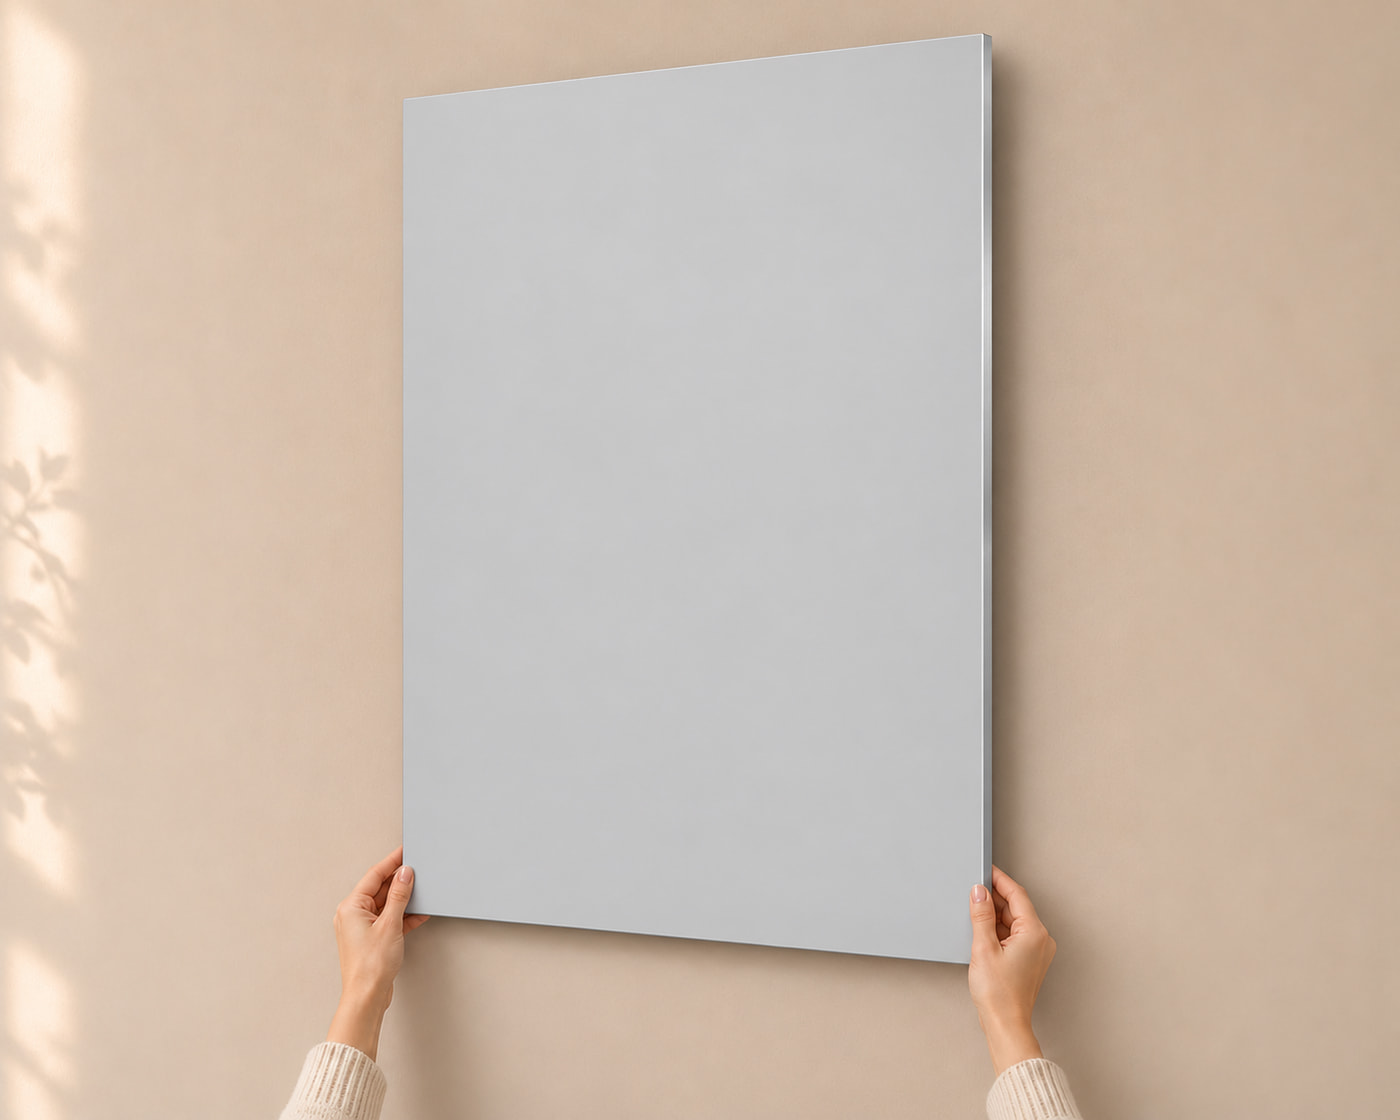
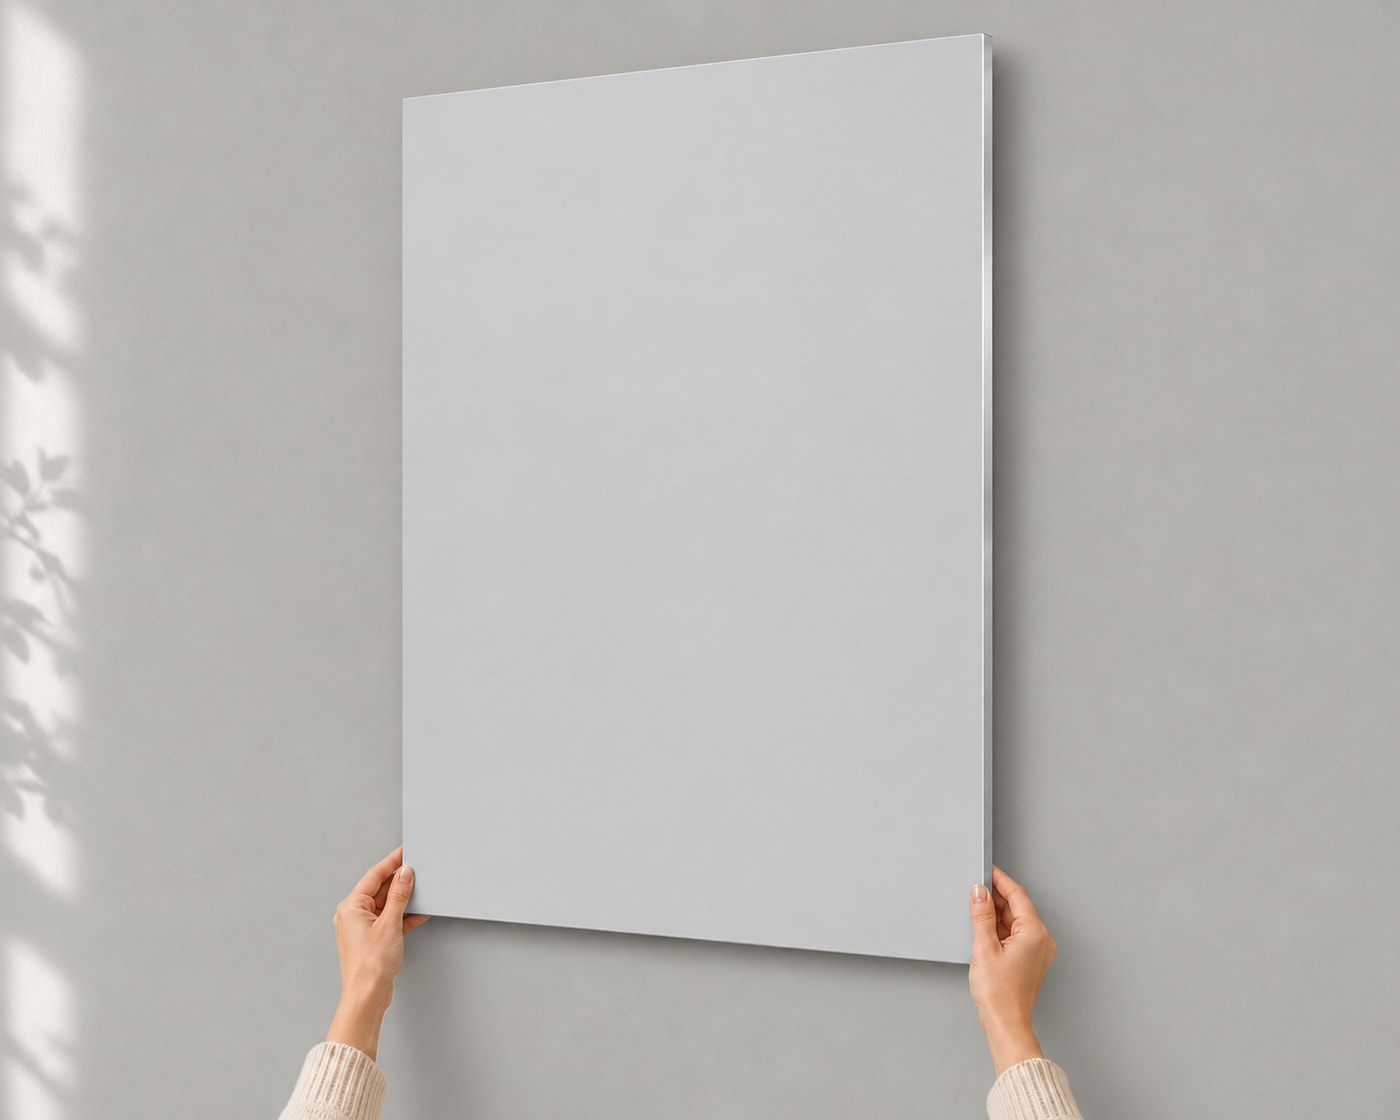
Left align metal preview on grey wall

diff --git a/assets/base.css b/assets/base.css
@@ -422,7 +422,7 @@ textarea { min-height: 9rem; resize: vertical; }
 .metal-lifestyle {
   width: 34%;
   max-width: 20rem;
-  margin: clamp(1.5rem, 3vw, 2.25rem) 0 0 auto;
+  margin: clamp(1.5rem, 3vw, 2.25rem) auto 0 0;
 }
 .metal-lifestyle[hidden] { display: none; }
 .metal-lifestyle__open {
